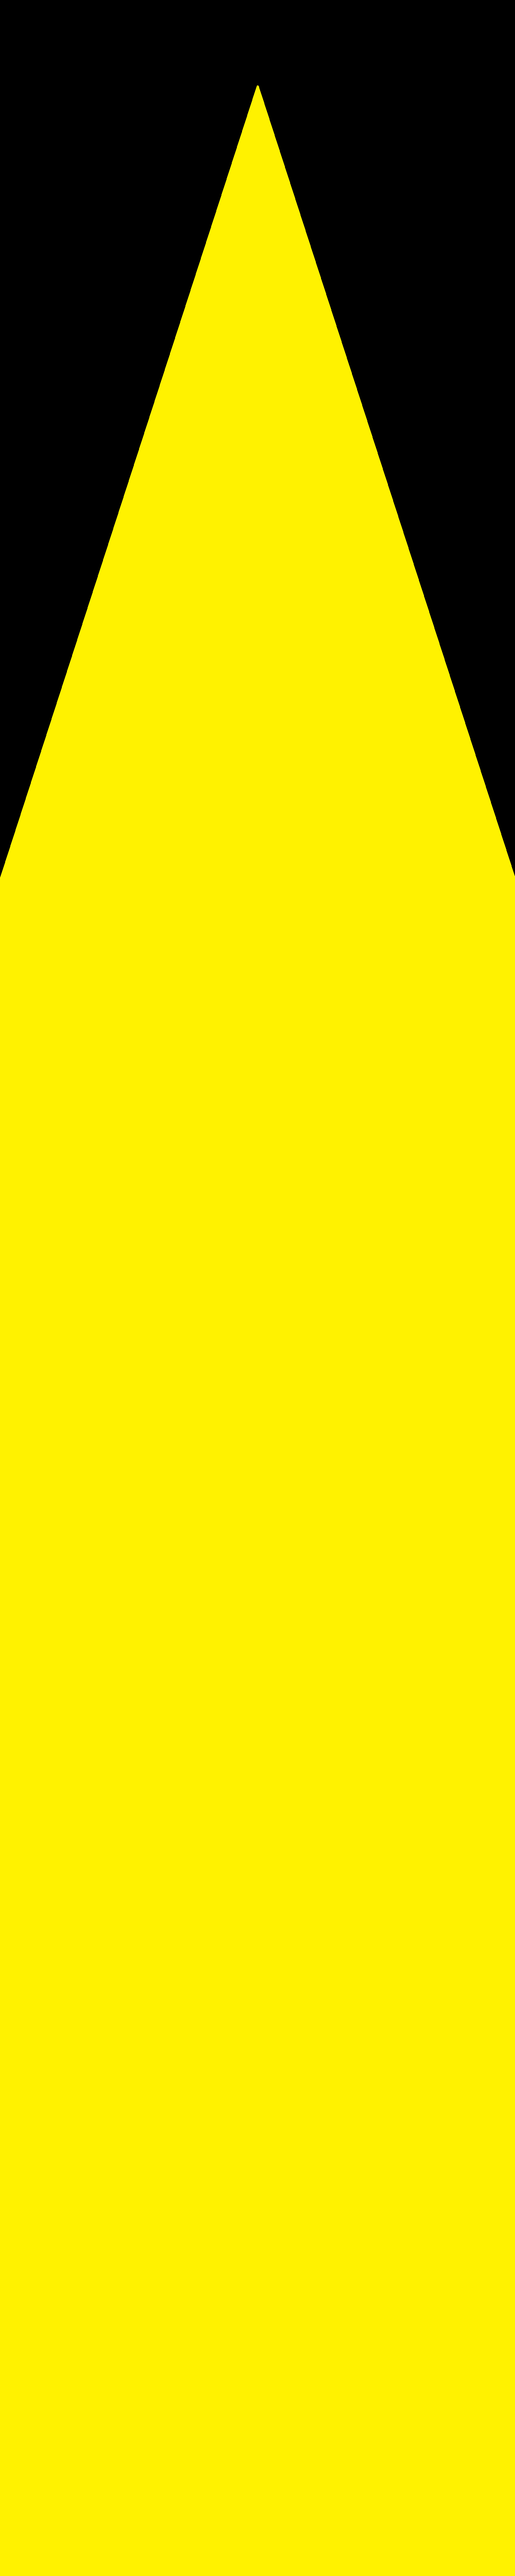
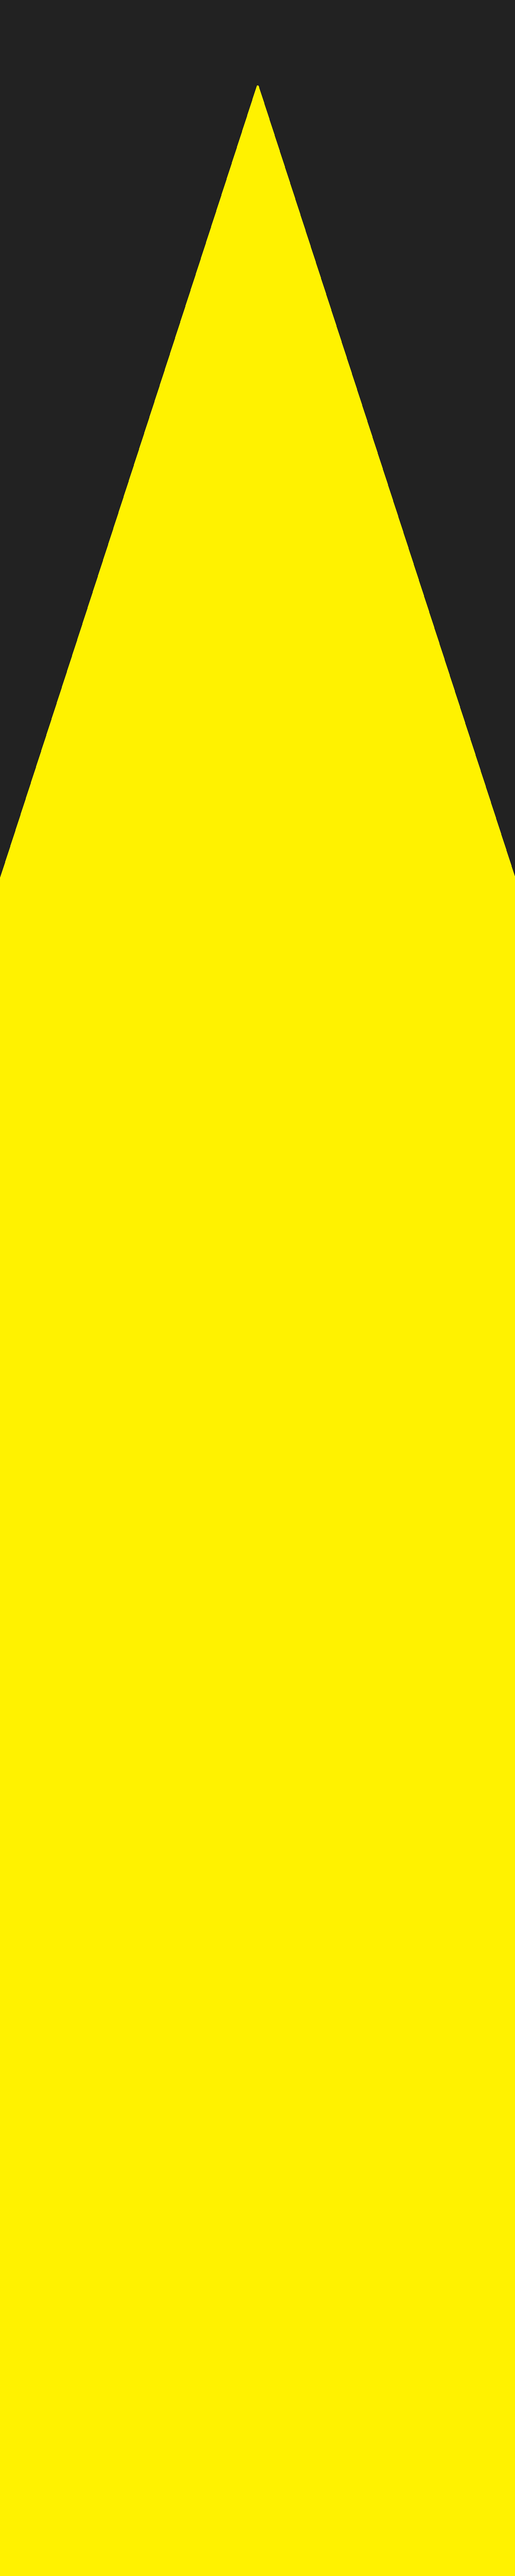
Created wordcloud

Changed region(s): [[0.0, 0.0, 1.0, 0.3428]]

diff --git a/Assignment_2/assignment2.html b/Assignment_2/assignment2.html
@@ -62,25 +62,12 @@
             </p>
         </div>
 
-        <div class = "pure-u-1-3">
-            <div id = "stacked_density"></div>
-            <p>
-                "Lorem ipsum dolor sit amet, consectetur adipiscing elit, sed do eiusmod tempor incididunt ut labore et dolore magna aliqua. Ut enim ad minim veniam, quis nostrud exercitation ullamco laboris nisi ut aliquip ex ea commodo consequat. Duis aute irure dolor in reprehenderit in voluptate velit esse cillum dolore eu fugiat nulla pariatur. Excepteur sint occaecat cupidatat non proident, sunt in culpa qui officia deserunt mollit anim id est laborum."
-            </p>
+        <div class = "pure-u-1-12">
+            <div id = "Padding2"></div>
         </div>
 
-        <div class = "pure-u-1-3">
-            <div id = "marginal_hist"></div>
-            <p>
-                "Lorem ipsum dolor sit amet, consectetur adipiscing elit, sed do eiusmod tempor incididunt ut labore et dolore magna aliqua. Ut enim ad minim veniam, quis nostrud exercitation ullamco laboris nisi ut aliquip ex ea commodo consequat. Duis aute irure dolor in reprehenderit in voluptate velit esse cillum dolore eu fugiat nulla pariatur. Excepteur sint occaecat cupidatat non proident, sunt in culpa qui officia deserunt mollit anim id est laborum."
-            </p>
-        </div>
-
-        <div class = "pure-u-1-3">
-            <div id = "word_cloud"></div>
-            <p>
-                "Lorem ipsum dolor sit amet, consectetur adipiscing elit, sed do eiusmod tempor incididunt ut labore et dolore magna aliqua. Ut enim ad minim veniam, quis nostrud exercitation ullamco laboris nisi ut aliquip ex ea commodo consequat. Duis aute irure dolor in reprehenderit in voluptate velit esse cillum dolore eu fugiat nulla pariatur. Excepteur sint occaecat cupidatat non proident, sunt in culpa qui officia deserunt mollit anim id est laborum."
-            </p>
+        <div class = "pure-u-5-6">
+                <div id = "concat_heatmap"></div>
         </div>
 
     </div>
@@ -89,6 +76,7 @@
         vegaEmbed("#aus_map", "aus_map.json",{renderer: "svg", actions: false}).catch(console.error);
         vegaEmbed("#bar_shape", "isotype_dot_shape.json",{renderer: "svg", actions: false}).catch(console.error);
         vegaEmbed("#global_map", "global_map.json",{renderer: "svg", actions: false}).catch(console.error);
+        vegaEmbed("#concat_heatmap", "concat_heatmap.json",{renderer: "svg", actions: false}).catch(console.error);
     </script>
 </body>
 

diff --git a/Assignment_2/css/layout.css b/Assignment_2/css/layout.css
@@ -1,7 +1,8 @@
 html,
 body {
-    background-color: #050e40;
+    background-color: #141414;
     width: 1200px;
+    height: 6000px;
     margin: 0 auto;
     background-image: url("background.png");
     background-repeat: no-repeat;
@@ -11,7 +12,8 @@ body {
 
 .pure-u-1{
     width: 1200px;
-    height: 300px;
+    height: 200px;
+    margin: auto;
 }
 
 .pure-u-1-3 {
@@ -41,6 +43,17 @@ body {
     height: 600px;
 }
 
+.pure-u-1-12 {
+    width: 275px;
+    height: 600px;
+}
+
+.pure-u-5-6 {
+    width: 800px;
+    height: 600px;
+}
+
+
 #text_div {
     margin-left: 10px;
     margin-right: 10px;
@@ -57,7 +70,6 @@ p {
     font-size: 16px;
 }
 
-
 #global_map {
     width: 450px;
     height: 450px;
@@ -66,11 +78,17 @@ p {
 
 #bar_shape {
     width: 100%;
-    height: 100%
+    height: 100%;
 }
 
 #aus_map {
     width: 100%;
     height: 100%;
     margin-left: 50px;
+}
+
+#concat_heatmap {
+    width: 100%;
+    height: 100%;
+    margin: auto;
 }
